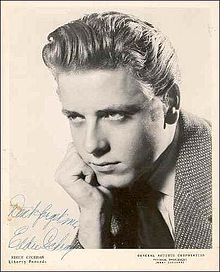
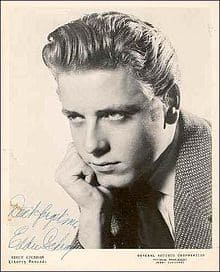
сжатие изображения

diff --git a/js/main.js b/js/main.js
@@ -40,20 +40,6 @@ $(document).ready(function () {
     });
   }
 
-  // Скрипт для паралакса
-  // $(document).scroll(function () {
-  //   var pos = $(window).scrollTop();
-  //   $(".newsletter").css("background-image", pos * 0.7 + "px");
-  // });
-
-  // $(window).on("load resize scroll", function () {
-  //   $(".parallax").parlx({
-  //     speed: 0.3,
-  //     mobile: true,
-  //     direction: "vertical",
-  //   });
-  // });
-
   var menuButton = $(".menu-button");
   menuButton.on("click", function () {
     console.log("Click");
@@ -103,13 +89,4 @@ $(document).ready(function () {
   });
 
   $('input[name="phone"]').mask("+7 (000) 000 0000");
-
-  // $(document).on('keydown', function(event){
-  //   if(event.which === 27){
-  //     elements.removeClass('modal__overlay--visible');
-  //     var home = $.Event("keydown", {keyCode: 36});
-  //       $(document).trigger(home);
-  //       event.preventDefault();
-  //       return false;
-  //   }
 });
